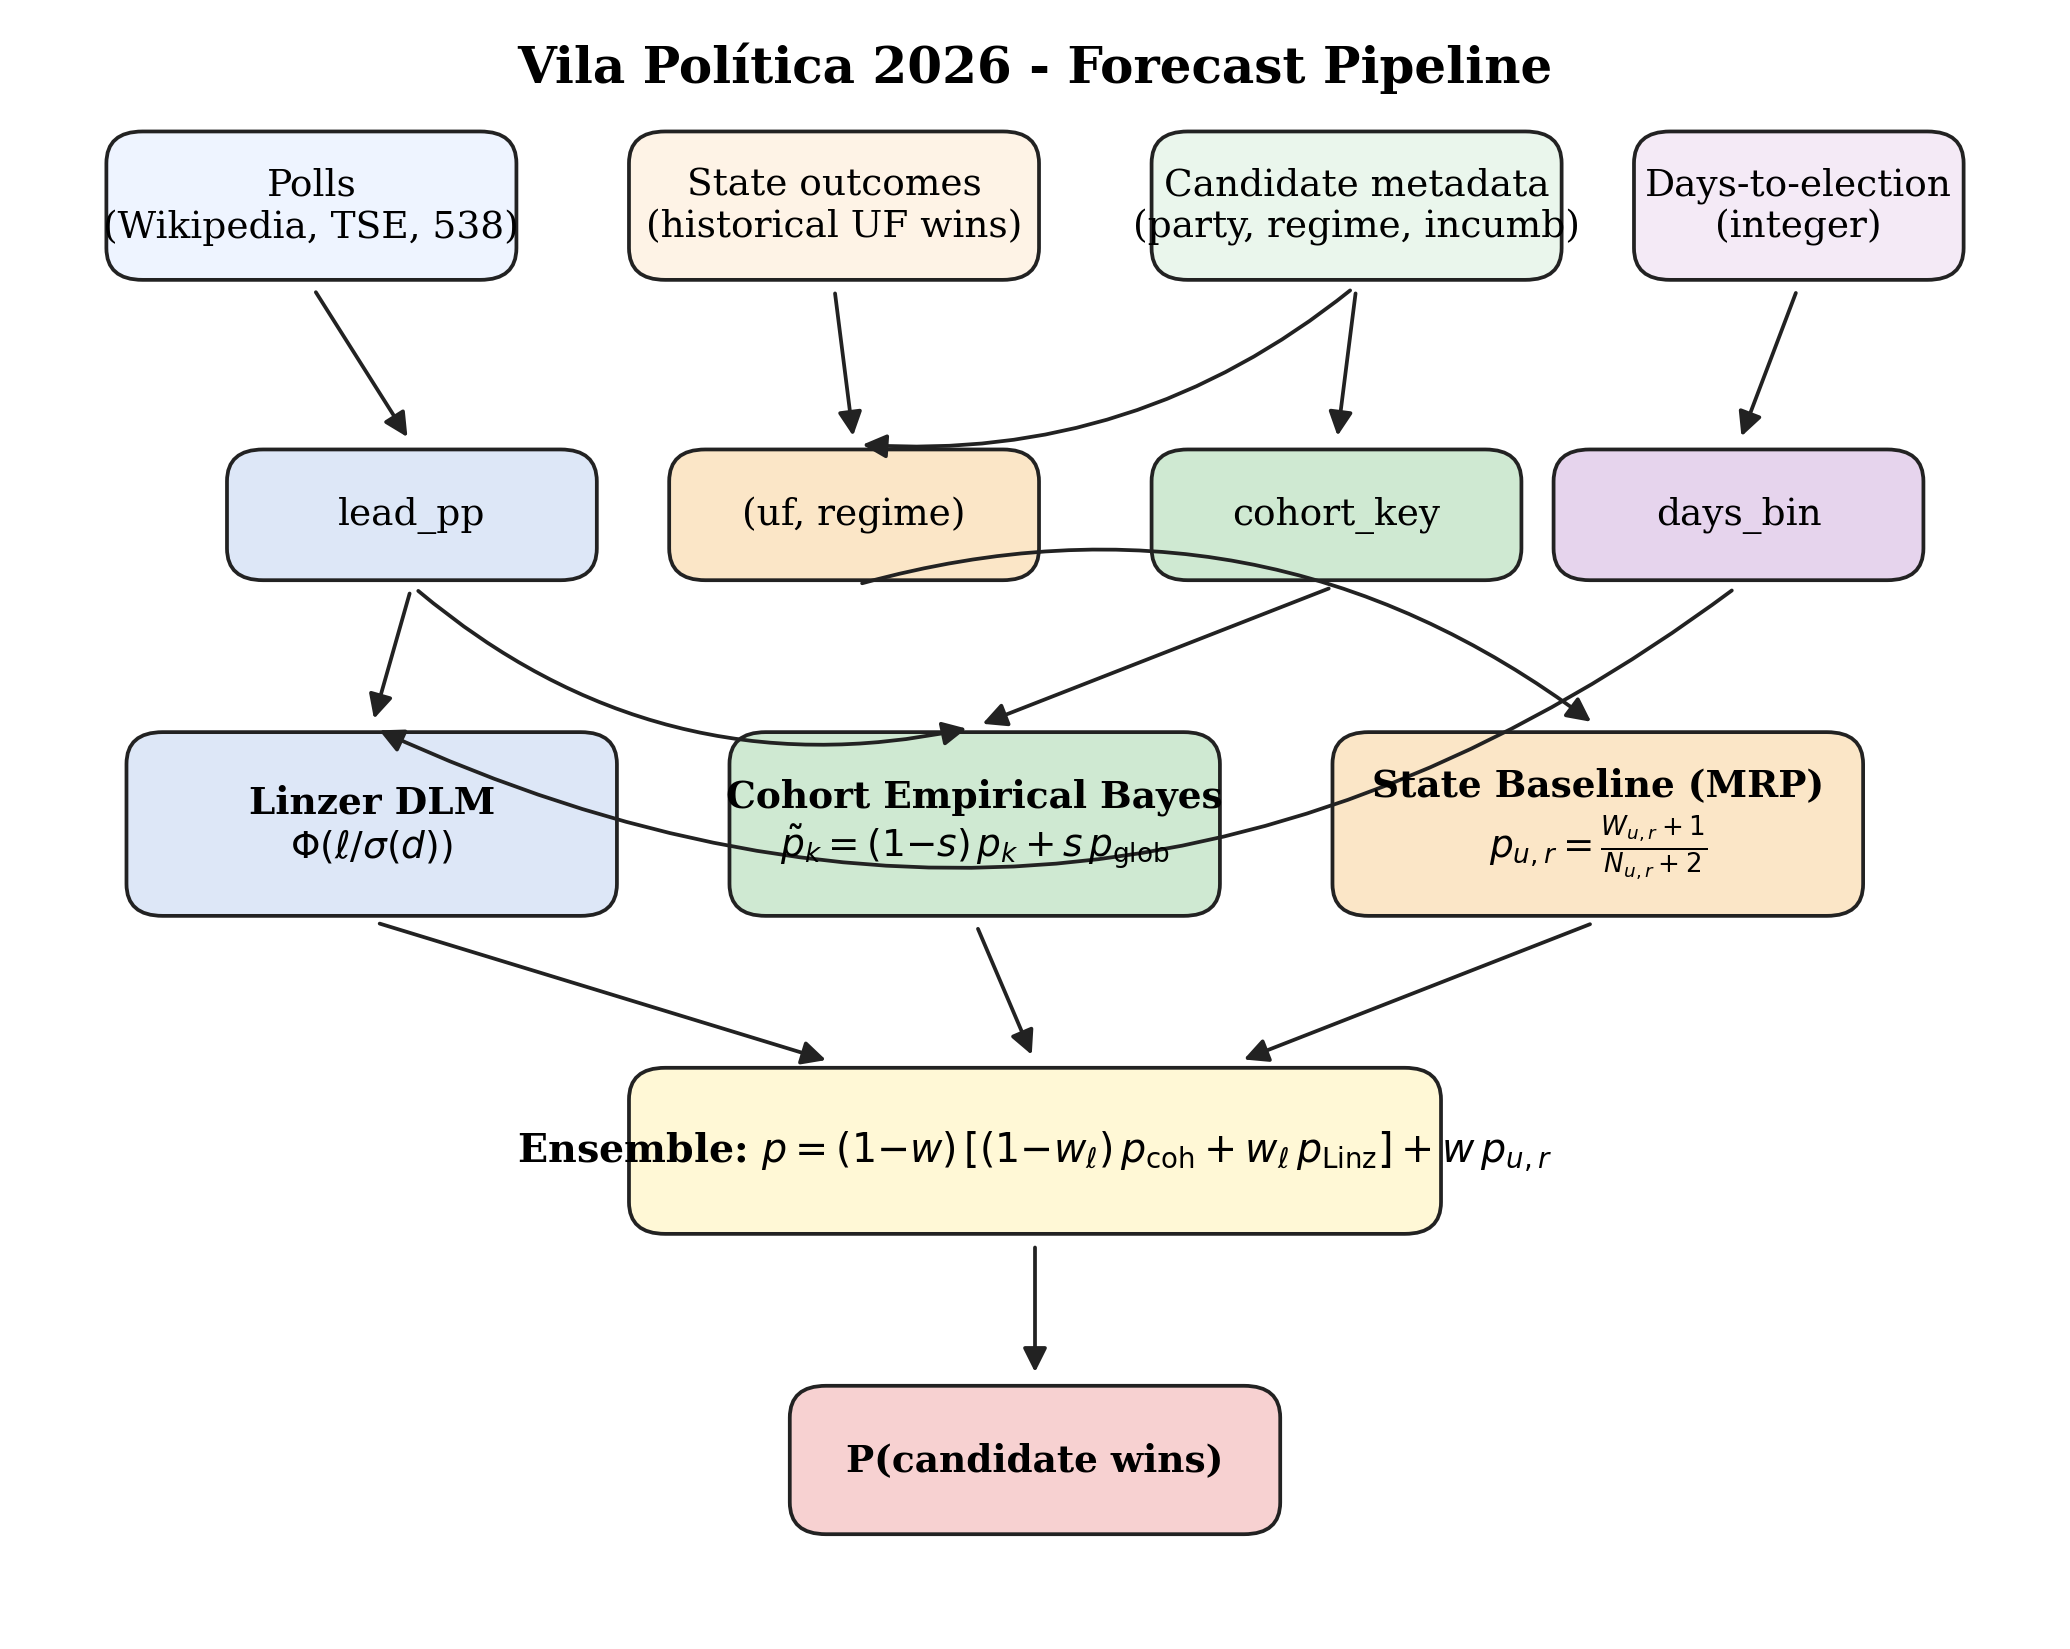
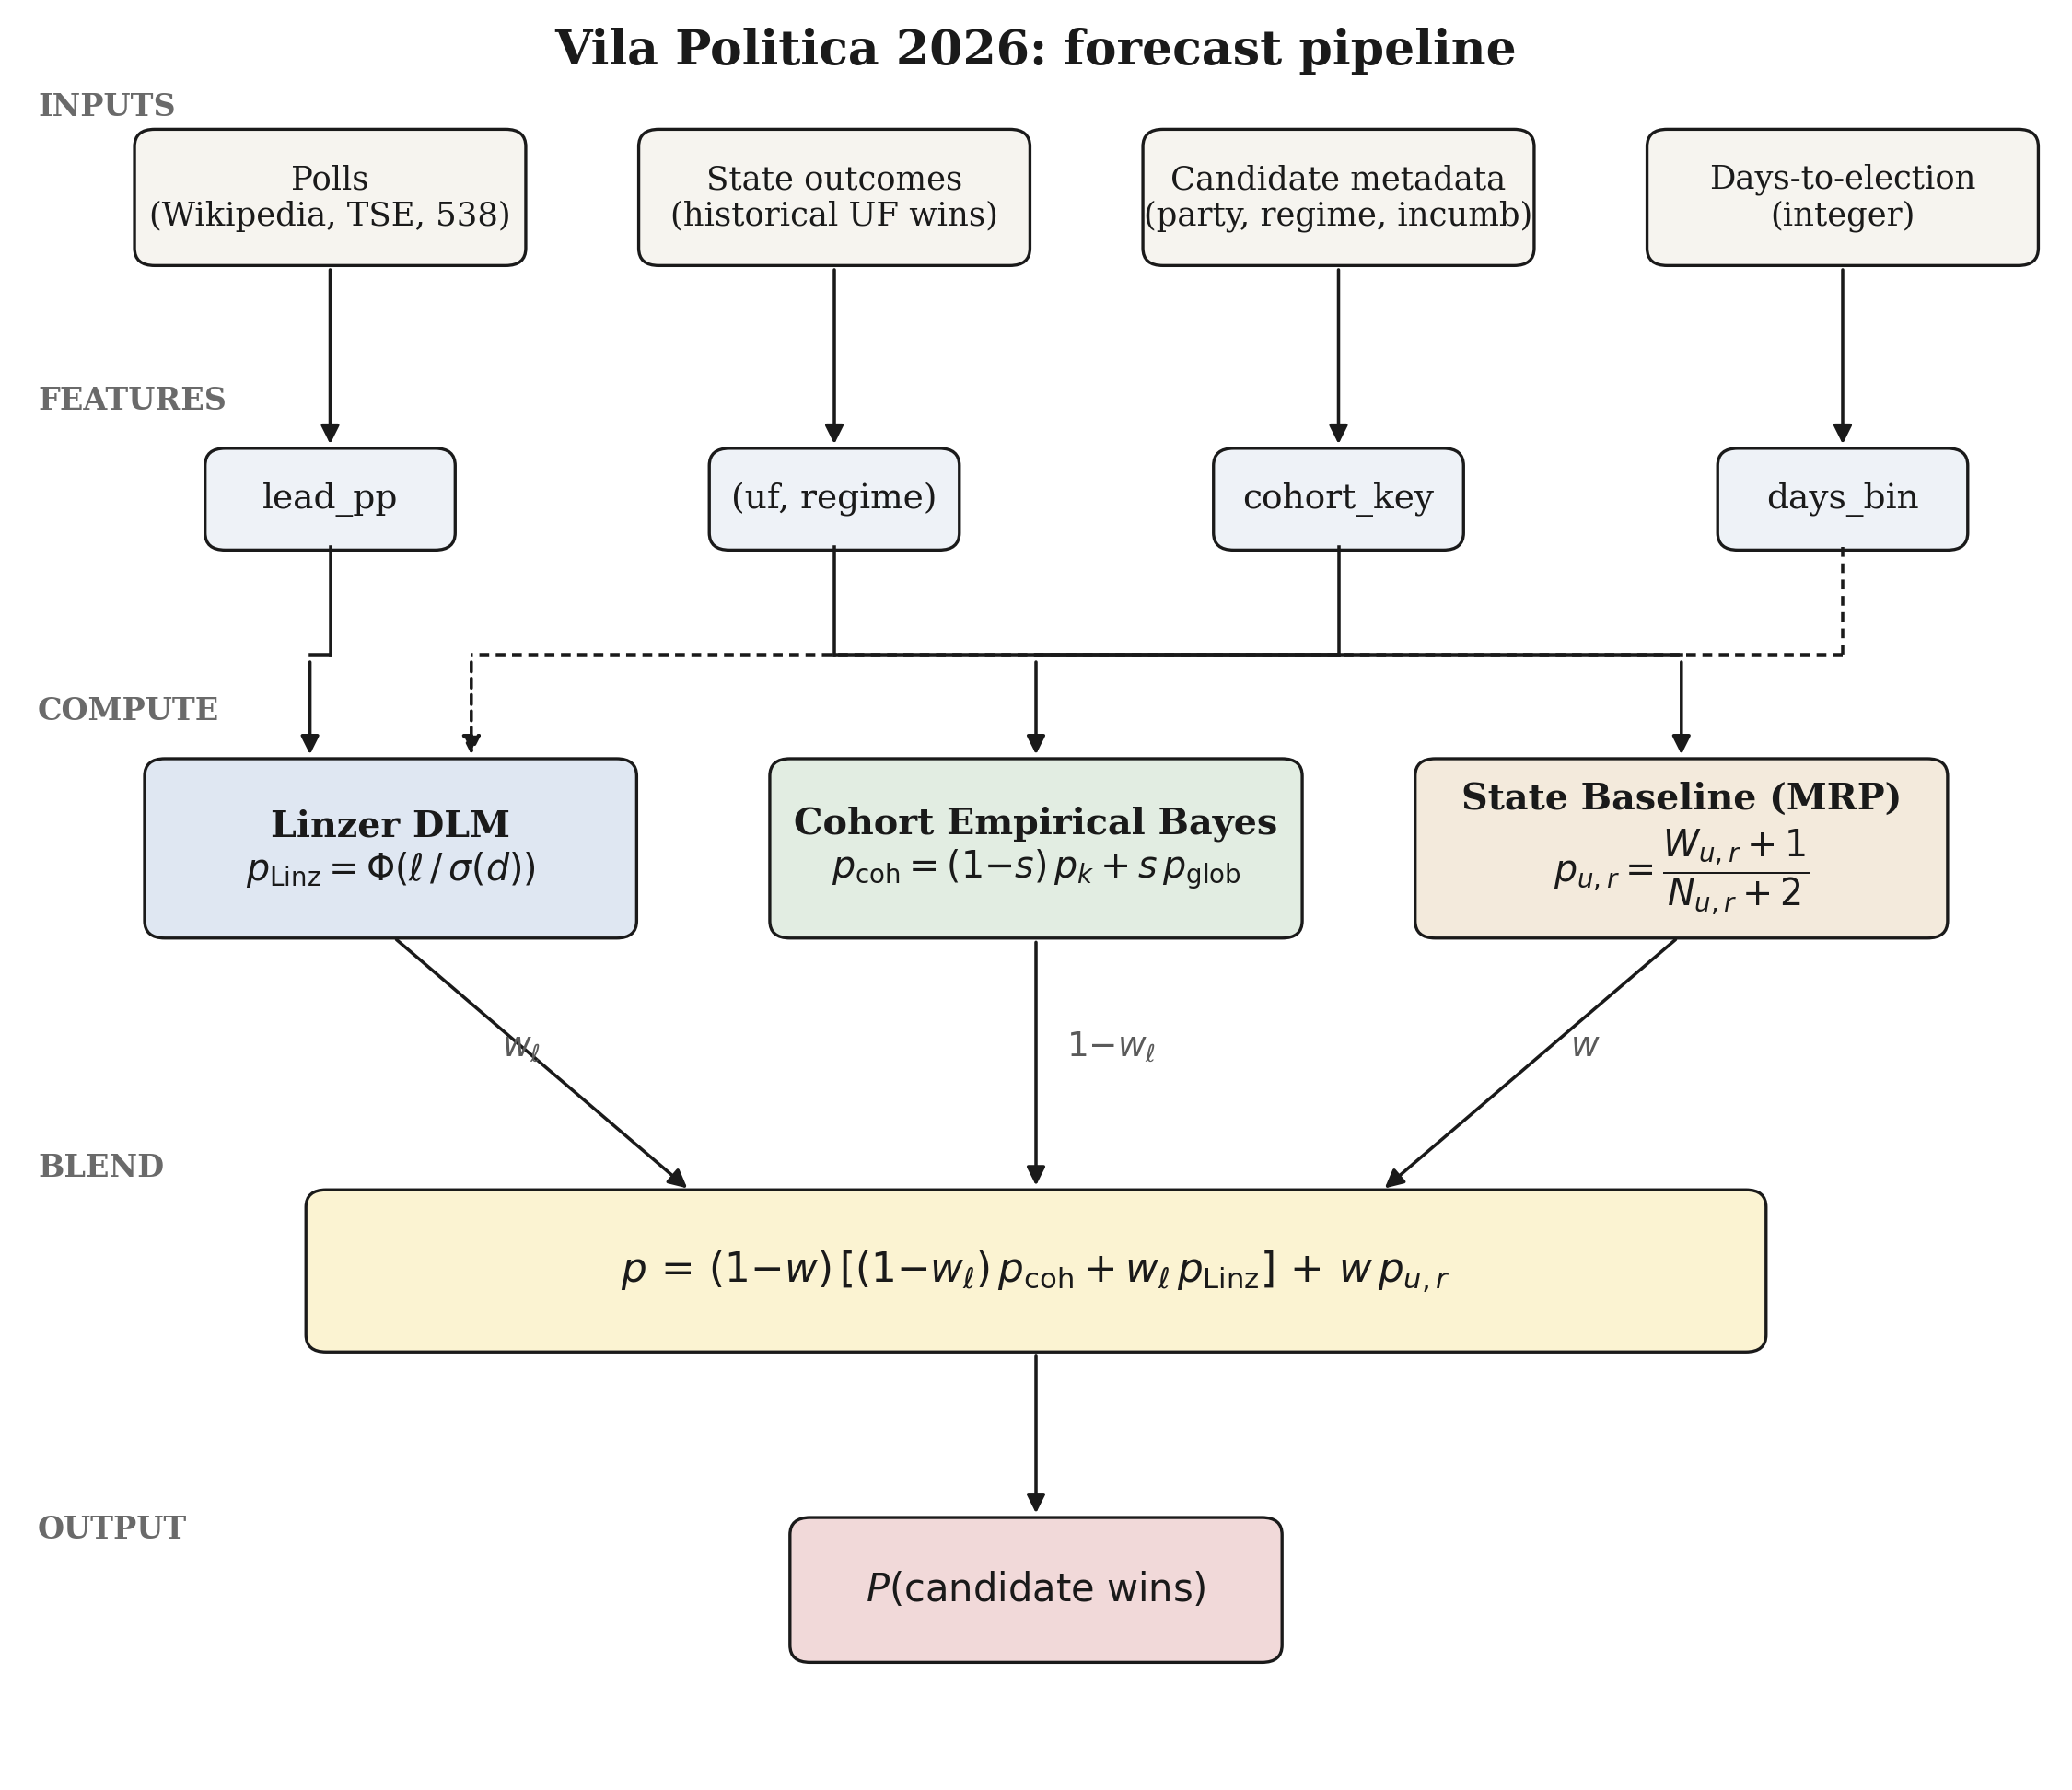
docs(paper): polish architecture figure with orthogonal layout
Rebuilt scripts/make_architecture_fig.py: muted academic palette
(no candy colors), explicit INPUTS/FEATURES/COMPUTE/BLEND/OUTPUT
layer labels in left margin, right-angle L-shaped arrows fanning
features into compute boxes, explicit weight labels (w_l, 1-w_l, w)
on arrows entering the ensemble, dashed secondary path for the
days_bin -> sigma(d) connection. Updated PAPER.md figure caption
to reference the new components and weights.

diff --git a/docs/paper/PAPER.html b/docs/paper/PAPER.html
@@ -306,7 +306,7 @@ Conclusions. State-level empirical-Bayes priors, structurally analogous to multi
 <h3>2.3 Brazilian electoral context</h3>
 <p>The fundamentals tradition in the U.S. is exemplified by Abramowitz (1988, 2008); for Brazil, Almeida (2008) on socioeconomic determinants and Borges and Vidigal (2018) on partisan stability across cycles. Bafumi and Gelman (2007) document the partisan polarization that motivates state-baseline persistence. Brazilian polling behavior is analyzed by Davi and Vianna (2019) for 2018; Schaefer and Sallum (2024) and Limongi (2023) for 2022. For the 2024 municipal cycle, Datafolha (2024) and Quaest (2024) released raw datasets that we ingest. Brazilian electoral systems are described in Nicolau (2017) and Limongi and Cortez (2010); Sao Paulo municipal partisan persistence in Soares and Terron (2008); incumbent advantage in Brazilian municipal contests in Avelino, Biderman and Barone (2012).</p>
 <h2>3 Theoretical Framework</h2>
-<figure><p><img alt="Forecast pipeline. Inputs (top) feed engineered features, which fan out to three estimators (Linzer dynamic linear, cohort empirical Bayes, MRP-style state baseline). The ensemble blend (yellow box) produces the final candidate-level probability." src="file:///home/pedroafonso/vila-politica-2026/docs/paper/figs/fig0_architecture.png" /></p><figcaption>Figure 1: Forecast pipeline. Inputs (top) feed engineered features, which fan out to three estimators (Linzer dynamic linear, cohort empirical Bayes, MRP-style state baseline). The ensemble blend (yellow box) produces the final candidate-level probability..</figcaption></figure>
+<figure><p><img alt="Forecast pipeline. Four data inputs (top row) each map to a primary engineered feature; features fan via right-angle bus into three estimators: Linzer dynamic linear (&lt;img src=&quot;file:///tmp/paper_math_svg_v3/m_54a31a7591994f.svg&quot; class=&quot;math-inline&quot; alt=&quot;p_{\mathrm{Linz}}&quot;&gt;), cohort empirical Bayes with global-prior shrinkage (&lt;img src=&quot;file:///tmp/paper_math_svg_v3/m_37c42304341228.svg&quot; class=&quot;math-inline&quot; alt=&quot;p_{\mathrm{coh}}&quot;&gt;), and the MRP-style state baseline (&lt;img src=&quot;file:///tmp/paper_math_svg_v3/m_110b70d4ea3315.svg&quot; class=&quot;math-inline&quot; alt=&quot;p_{u,r}&quot;&gt;). The dashed connection denotes the secondary &lt;img src=&quot;file:///tmp/paper_math_svg_v3/m_96c0684380b554.svg&quot; class=&quot;math-inline&quot; alt=&quot;\sigma(d)&quot;&gt; pathway from days-to-election into the Linzer drift. The ensemble blend (yellow box) combines the three components with selected weights &lt;img src=&quot;file:///tmp/paper_math_svg_v3/m_3a7c41c7d15437.svg&quot; class=&quot;math-inline&quot; alt=&quot;w_\ell&quot;&gt; and &lt;img src=&quot;file:///tmp/paper_math_svg_v3/m_f37ec798cf4671.svg&quot; class=&quot;math-inline&quot; alt=&quot;w&quot;&gt; to produce the final candidate-level probability." src="file:///home/pedroafonso/vila-politica-2026/docs/paper/figs/fig0_architecture.png" /></p><figcaption>Figure 1: Forecast pipeline. Four data inputs (top row) each map to a primary engineered feature; features fan via right-angle bus into three estimators: Linzer dynamic linear (&lt;img src=&quot;file:///tmp/paper_math_svg_v3/m_54a31a7591994f.svg&quot; class=&quot;math-inline&quot; alt=&quot;p_{\mathrm{Linz}}&quot;&gt;), cohort empirical Bayes with global-prior shrinkage (&lt;img src=&quot;file:///tmp/paper_math_svg_v3/m_37c42304341228.svg&quot; class=&quot;math-inline&quot; alt=&quot;p_{\mathrm{coh}}&quot;&gt;), and the MRP-style state baseline (&lt;img src=&quot;file:///tmp/paper_math_svg_v3/m_110b70d4ea3315.svg&quot; class=&quot;math-inline&quot; alt=&quot;p_{u,r}&quot;&gt;). The dashed connection denotes the secondary &lt;img src=&quot;file:///tmp/paper_math_svg_v3/m_96c0684380b554.svg&quot; class=&quot;math-inline&quot; alt=&quot;\sigma(d)&quot;&gt; pathway from days-to-election into the Linzer drift. The ensemble blend (yellow box) combines the three components with selected weights &lt;img src=&quot;file:///tmp/paper_math_svg_v3/m_3a7c41c7d15437.svg&quot; class=&quot;math-inline&quot; alt=&quot;w_\ell&quot;&gt; and &lt;img src=&quot;file:///tmp/paper_math_svg_v3/m_f37ec798cf4671.svg&quot; class=&quot;math-inline&quot; alt=&quot;w&quot;&gt; to produce the final candidate-level probability..</figcaption></figure>
 <h3>3.1 Cohort empirical Bayes</h3>
 <p>Let an electoral event be a tuple e = (cargo, days, lead_pp, incumbente, regime, uf, year, y), where y in {0, 1} is the realized outcome. Each event maps to a cohort key</p>
 <p>k = (cargo, days_bin, lead_bin, incumbente, regime),</p>

diff --git a/scripts/make_architecture_fig.py b/scripts/make_architecture_fig.py
@@ -1,113 +1,165 @@
 #!/usr/bin/env python3
-"""Generate the canonical architecture figure for the paper.
+"""Architecture figure for the paper.
 
-Mimics the layered diagram style of 'Attention is all you need' Fig. 1:
-clean boxes, labelled arrows, single column rendering, white background.
+Single-column orthogonal diagram in the spirit of Vaswani et al. (2017)
+Fig. 1: muted academic palette, right-angle arrows, weight labels on
+the ensemble blend. Each input has one primary feature directly below
+it. Features fan into three compute paths via clean L-shaped arrows.
 """
 from pathlib import Path
 import matplotlib
 matplotlib.use("Agg")
 import matplotlib.pyplot as plt
 from matplotlib.patches import FancyBboxPatch, FancyArrowPatch
-from matplotlib.patches import Rectangle
 
 ROOT = Path(__file__).resolve().parent.parent
 OUT = ROOT / "docs" / "paper" / "figs" / "fig0_architecture.png"
 
+INK = "#1a1a1a"
+SOFT = "#5a5a5a"
 
-def box(ax, xy, w, h, text, fc="#f5f5f0", ec="#222", fontsize=9, weight="normal"):
+PALETTE = {
+    "input":   "#f6f4ef",
+    "feature": "#eef2f7",
+    "linzer":  "#dfe7f2",
+    "cohort":  "#e2ede2",
+    "state":   "#f3eadc",
+    "blend":   "#fbf3d2",
+    "output":  "#f1d9d9",
+}
+
+
+def box(ax, xy, w, h, text, fc, fontsize=9, weight="normal"):
     x, y = xy
     bb = FancyBboxPatch(
         (x, y), w, h,
-        boxstyle="round,pad=0.02,rounding_size=0.18",
-        linewidth=0.9, edgecolor=ec, facecolor=fc,
+        boxstyle="round,pad=0.02,rounding_size=0.10",
+        linewidth=0.8, edgecolor=INK, facecolor=fc,
     )
     ax.add_patch(bb)
     ax.text(x + w / 2, y + h / 2, text,
             ha="center", va="center", fontsize=fontsize,
-            family="serif", weight=weight)
+            family="serif", weight=weight, color=INK)
 
 
-def arrow(ax, p1, p2, label=None, style="-", curve=0.0):
-    a = FancyArrowPatch(p1, p2, arrowstyle="-|>", mutation_scale=12,
-                        linewidth=0.9, color="#222",
-                        connectionstyle=f"arc3,rad={curve}",
-                        linestyle=style)
+def varrow(ax, p1, p2, label=None, lx=0.10, ly=0.0, fs=8.5, dashed=False):
+    style = (0, (3, 2)) if dashed else "-"
+    a = FancyArrowPatch(
+        p1, p2, arrowstyle="-|>", mutation_scale=10,
+        linewidth=0.85, color=INK, linestyle=style,
+    )
     ax.add_patch(a)
     if label:
-        mx, my = (p1[0] + p2[0]) / 2, (p1[1] + p2[1]) / 2
-        ax.text(mx + 0.12, my, label, fontsize=8, family="serif",
-                style="italic", color="#444")
+        ax.text((p1[0] + p2[0]) / 2 + lx,
+                (p1[1] + p2[1]) / 2 + ly,
+                label, fontsize=fs, family="serif",
+                style="italic", color=SOFT)
 
 
-fig, ax = plt.subplots(figsize=(7.0, 5.6), dpi=300)
+def lshape(ax, p1, p2, dashed=False):
+    """Down-then-horizontal-then-down arrow: drops from p1 to a midline,
+    runs horizontally to p2.x, drops to p2."""
+    x1, y1 = p1
+    x2, y2 = p2
+    style = (0, (3, 2)) if dashed else "-"
+    midy = (y1 + y2) / 2
+    ax.plot([x1, x1], [y1, midy], color=INK, linewidth=0.85, linestyle=style)
+    ax.plot([x1, x2], [midy, midy], color=INK, linewidth=0.85, linestyle=style)
+    a = FancyArrowPatch(
+        (x2, midy), (x2, y2), arrowstyle="-|>",
+        mutation_scale=10, linewidth=0.85, color=INK, linestyle=style,
+    )
+    ax.add_patch(a)
+
+
+# ---- canvas ----
+fig, ax = plt.subplots(figsize=(7.6, 6.6), dpi=300)
 ax.set_xlim(0, 10)
-ax.set_ylim(0, 9)
+ax.set_ylim(0, 10)
 ax.axis("off")
 
-# Top inputs row
-box(ax, (0.4, 7.6), 2.0, 0.8, "Polls\n(Wikipedia, TSE, 538)", fc="#eef4ff")
-box(ax, (3.0, 7.6), 2.0, 0.8, "State outcomes\n(historical UF wins)", fc="#fef3e6")
-box(ax, (5.6, 7.6), 2.0, 0.8, "Candidate metadata\n(party, regime, incumb)", fc="#eaf6ec")
-box(ax, (8.0, 7.6), 1.6, 0.8, "Days-to-election\n(integer)", fc="#f4eaf6")
+LABEL_GREY = "#6a6a6a"
+for y, name in [(9.55, "INPUTS"), (7.85, "FEATURES"),
+                (6.05, "COMPUTE"), (3.40, "BLEND"),
+                (1.30, "OUTPUT")]:
+    ax.text(0.05, y, name, fontsize=8, color=LABEL_GREY,
+            family="serif", weight="bold", ha="left")
 
-# Middle features
-box(ax, (1.0, 5.9), 1.8, 0.7, "lead_pp", fc="#dde7f7")
-box(ax, (3.2, 5.9), 1.8, 0.7, "(uf, regime)", fc="#fbe6c7")
-box(ax, (5.6, 5.9), 1.8, 0.7, "cohort_key", fc="#cfe9d2")
-box(ax, (7.6, 5.9), 1.8, 0.7, "days_bin", fc="#e6d4ed")
+# Column centers (x) for each input/feature pair
+INPUT_COL = [1.50, 4.00, 6.50, 9.00]
+COMPUTE_COL = {"linzer": 1.80, "cohort": 5.00, "state": 8.20}
 
-# Three computation paths
-# Linzer
-box(ax, (0.5, 4.0), 2.4, 1.0,
-    r"Linzer DLM" "\n" r"$\Phi(\ell / \sigma(d))$",
-    fc="#dde7f7", weight="bold")
+# ---- INPUTS row ----
+inputs = [
+    "Polls\n(Wikipedia, TSE, 538)",
+    "State outcomes\n(historical UF wins)",
+    "Candidate metadata\n(party, regime, incumb)",
+    "Days-to-election\n(integer)",
+]
+for x, txt in zip(INPUT_COL, inputs):
+    box(ax, (x - 0.95, 8.7), 1.9, 0.75, txt,
+        fc=PALETTE["input"], fontsize=8.5)
 
-# Cohort empirical Bayes
-box(ax, (3.5, 4.0), 2.4, 1.0,
-    "Cohort Empirical Bayes\n" r"$\tilde{p}_k = (1{-}s)\,p_k + s\,p_{\mathrm{glob}}$",
-    fc="#cfe9d2", weight="bold")
+# ---- FEATURES row (one per input column) ----
+features = ["lead_pp", "(uf, regime)", "cohort_key", "days_bin"]
+for x, name in zip(INPUT_COL, features):
+    box(ax, (x - 0.6, 7.05), 1.2, 0.55, name,
+        fc=PALETTE["feature"], fontsize=9)
 
-# State baseline
-box(ax, (6.5, 4.0), 2.6, 1.0,
-    "State Baseline (MRP)\n" r"$p_{u,r}=\frac{W_{u,r}+1}{N_{u,r}+2}$",
-    fc="#fbe6c7", weight="bold")
+# ---- COMPUTE row ----
+box(ax, (COMPUTE_COL["linzer"] - 1.2, 4.8), 2.4, 1.0,
+    r"Linzer DLM" "\n" r"$p_{\mathrm{Linz}} = \Phi(\ell\,/\,\sigma(d))$",
+    fc=PALETTE["linzer"], weight="bold", fontsize=9.5)
+box(ax, (COMPUTE_COL["cohort"] - 1.3, 4.8), 2.6, 1.0,
+    r"Cohort Empirical Bayes" "\n"
+    r"$p_{\mathrm{coh}} = (1{-}s)\,p_k + s\,p_{\mathrm{glob}}$",
+    fc=PALETTE["cohort"], weight="bold", fontsize=9.5)
+box(ax, (COMPUTE_COL["state"] - 1.3, 4.8), 2.6, 1.0,
+    r"State Baseline (MRP)" "\n"
+    r"$p_{u,r} = \dfrac{W_{u,r}+1}{N_{u,r}+2}$",
+    fc=PALETTE["state"], weight="bold", fontsize=9.5)
 
-# Blend
-box(ax, (3.0, 2.2), 4.0, 0.9,
-    r"Ensemble: $p = (1{-}w)\,[(1{-}w_\ell)\,p_{\mathrm{coh}} + w_\ell\,p_{\mathrm{Linz}}] + w\,p_{u,r}$",
-    fc="#fff8d6", weight="bold", fontsize=9.5)
+# ---- BLEND row ----
+box(ax, (1.4, 2.4), 7.2, 0.9,
+    r"$p \,=\, (1{-}w)\,[(1{-}w_\ell)\,p_{\mathrm{coh}} + w_\ell\,p_{\mathrm{Linz}}] \,+\, w\,p_{u,r}$",
+    fc=PALETTE["blend"], weight="bold", fontsize=10.5)
 
-# Output
-box(ax, (3.8, 0.5), 2.4, 0.8,
-    "P(candidate wins)",
-    fc="#f7d1d1", weight="bold")
+# ---- OUTPUT row ----
+box(ax, (3.8, 0.6), 2.4, 0.8, r"$P(\text{candidate wins})$",
+    fc=PALETTE["output"], weight="bold", fontsize=10)
 
-# Arrows from inputs to features
-arrow(ax, (1.4, 7.55), (1.9, 6.65))
-arrow(ax, (4.0, 7.55), (4.1, 6.65))
-arrow(ax, (6.6, 7.55), (4.1, 6.65), curve=-0.2)
-arrow(ax, (6.6, 7.55), (6.5, 6.65))
-arrow(ax, (8.8, 7.55), (8.5, 6.65))
+# ---- ARROWS ----
 
-# Features to paths
-arrow(ax, (1.9, 5.85), (1.7, 5.05))     # lead_pp -> Linzer
-arrow(ax, (8.5, 5.85), (1.7, 5.05), curve=-0.3)  # days_bin -> Linzer (sigma)
-arrow(ax, (6.5, 5.85), (4.7, 5.05))     # cohort_key -> Cohort
-arrow(ax, (1.9, 5.85), (4.7, 5.05), curve=0.25)  # lead_pp -> Cohort
-arrow(ax, (4.1, 5.85), (7.8, 5.05), curve=-0.25)  # (uf,regime) -> State
+# 1) Inputs -> features (straight vertical, primary)
+for x in INPUT_COL:
+    varrow(ax, (x, 8.70), (x, 7.60))
 
-# Paths to blend
-arrow(ax, (1.7, 3.95), (4.0, 3.15))
-arrow(ax, (4.7, 3.95), (5.0, 3.15))
-arrow(ax, (7.8, 3.95), (6.0, 3.15))
+# 2) Features -> compute paths (L-shapes from feature.bottom to compute.top)
+#    Map: lead_pp -> Linzer (primary)
+#         cohort_key -> Cohort (primary)
+#         (uf,regime) -> State (primary)
+#         days_bin -> Linzer (secondary, dashed; sigma scale)
+lshape(ax, (INPUT_COL[0], 7.05), (COMPUTE_COL["linzer"] - 0.4, 5.80))  # lead_pp -> Linzer
+lshape(ax, (INPUT_COL[2], 7.05), (COMPUTE_COL["cohort"], 5.80))         # cohort_key -> Cohort
+lshape(ax, (INPUT_COL[1], 7.05), (COMPUTE_COL["state"], 5.80))          # (uf,regime) -> State
+lshape(ax, (INPUT_COL[3], 7.05), (COMPUTE_COL["linzer"] + 0.4, 5.80),
+       dashed=True)                                                     # days_bin -> Linzer (sigma)
 
-# Blend to output
-arrow(ax, (5.0, 2.15), (5.0, 1.35))
+# 3) Compute -> blend (with weight labels)
+varrow(ax, (COMPUTE_COL["linzer"], 4.80), (3.30, 3.30),
+       label=r"$w_\ell$", lx=-0.20, ly=0.05, fs=9)
+varrow(ax, (COMPUTE_COL["cohort"], 4.80), (5.00, 3.30),
+       label=r"$1{-}w_\ell$", lx=0.15, ly=0.05, fs=9)
+varrow(ax, (COMPUTE_COL["state"], 4.80), (6.70, 3.30),
+       label=r"$w$", lx=0.20, ly=0.05, fs=9)
+
+# 4) Blend -> output
+varrow(ax, (5.0, 2.4), (5.0, 1.4))
 
 # Title
-ax.text(5.0, 8.7, "Vila Política 2026 - Forecast Pipeline",
-        ha="center", fontsize=12, family="serif", weight="bold")
+ax.text(5.0, 9.85, "Vila Politica 2026: forecast pipeline",
+        ha="center", fontsize=12.5, family="serif",
+        weight="bold", color=INK)
 
 plt.tight_layout()
 plt.savefig(OUT, dpi=300, bbox_inches="tight", facecolor="white")

diff --git a/docs/paper/PAPER.md b/docs/paper/PAPER.md
@@ -51,7 +51,7 @@ The fundamentals tradition in the U.S. is exemplified by Abramowitz (1988, 2008)
 
 ## 3. Theoretical Framework
 
-![Forecast pipeline. Inputs (top) feed engineered features, which fan out to three estimators (Linzer dynamic linear, cohort empirical Bayes, MRP-style state baseline). The ensemble blend (yellow box) produces the final candidate-level probability.](figs/fig0_architecture.png)
+![Forecast pipeline. Four data inputs (top row) each map to a primary engineered feature; features fan via right-angle bus into three estimators: Linzer dynamic linear ($p_{\mathrm{Linz}}$), cohort empirical Bayes with global-prior shrinkage ($p_{\mathrm{coh}}$), and the MRP-style state baseline ($p_{u,r}$). The dashed connection denotes the secondary $\sigma(d)$ pathway from days-to-election into the Linzer drift. The ensemble blend (yellow box) combines the three components with selected weights $w_\ell$ and $w$ to produce the final candidate-level probability.](figs/fig0_architecture.png)
 
 ### 3.1 Cohort empirical Bayes
 